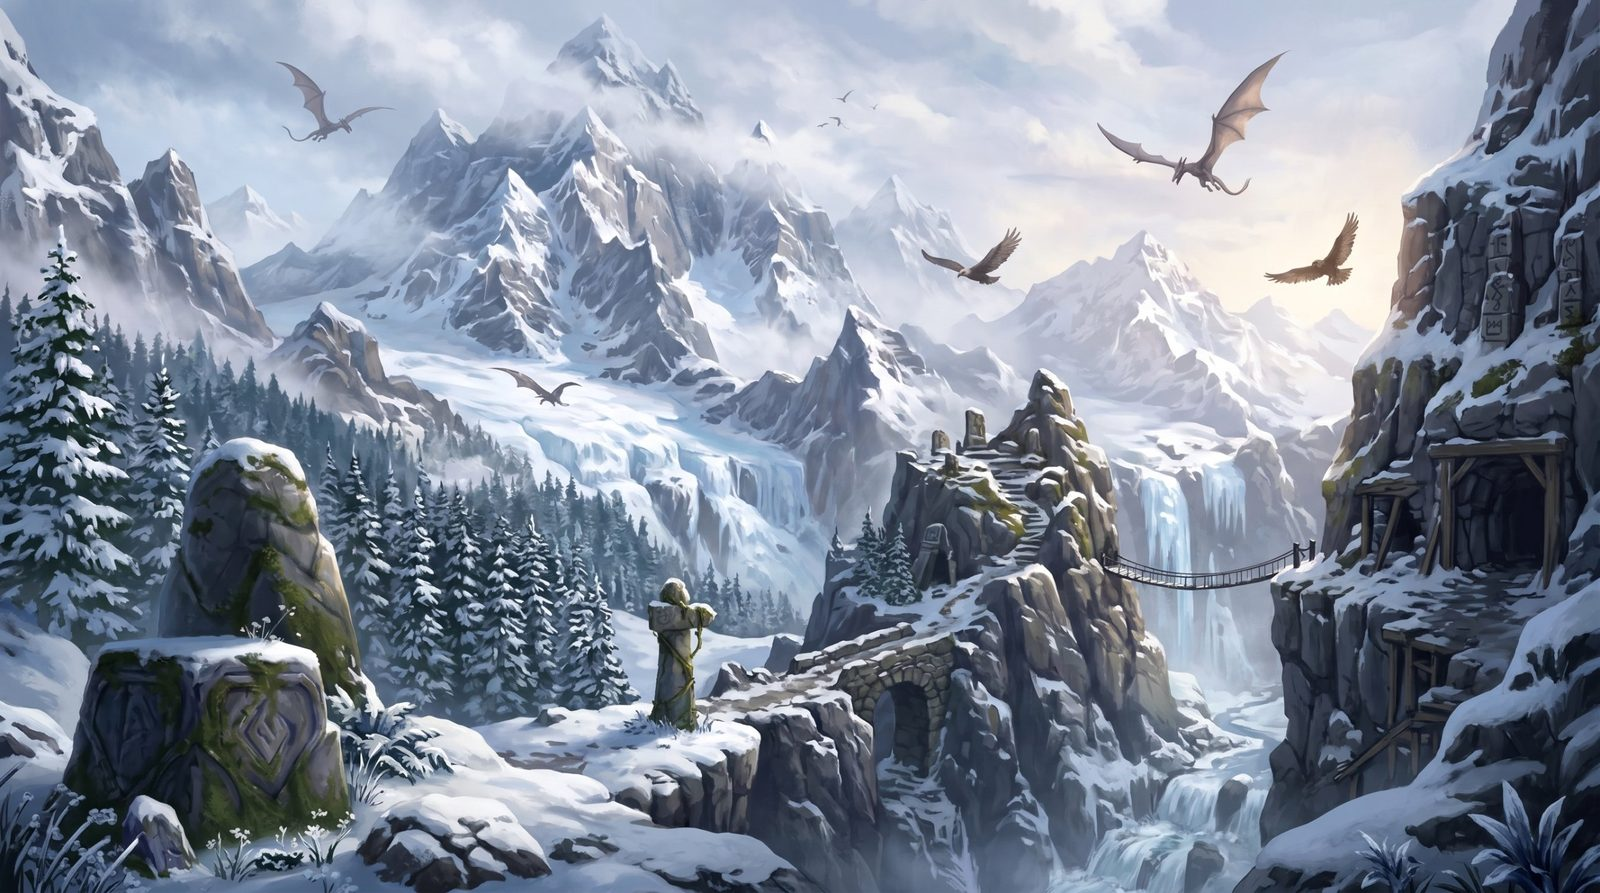
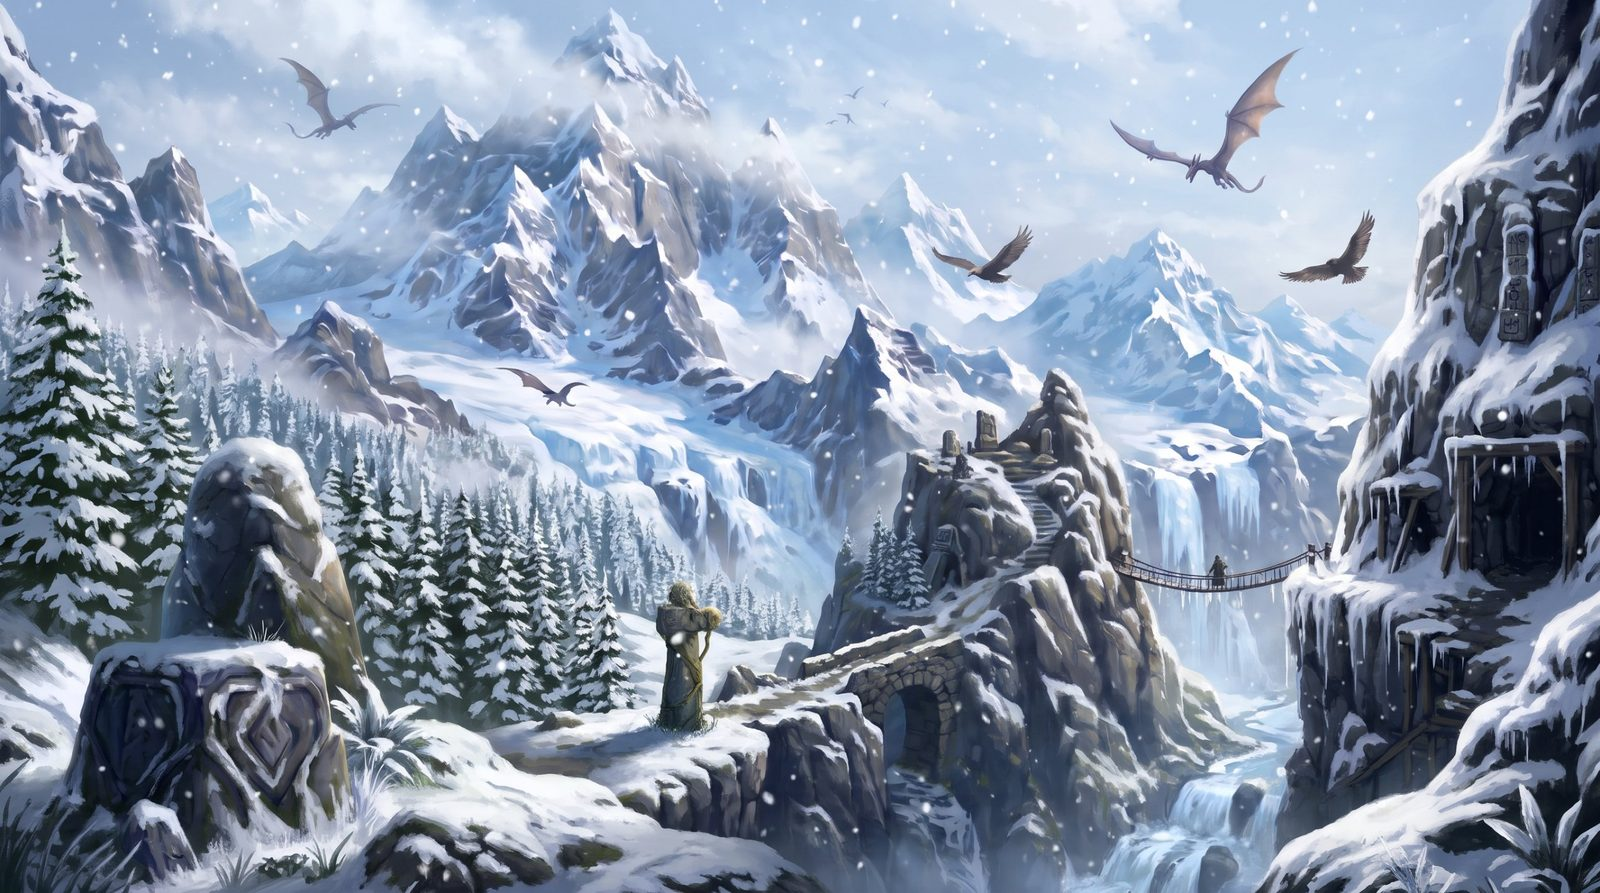
冒険6面（竜の山脈）の朝・昼・夕方・夜の画像を追加
Claude-Session: https://claude.ai/code/session_01EftAGzqa5a4WGGvn4eGGrQ

diff --git a/index.html b/index.html
@@ -2187,7 +2187,7 @@
         <button onclick="openCouponModal()" title="秘密の鍵"
             style="background:rgba(5,20,10,0.55);border:1px solid rgba(60,140,80,0.35);border-radius:20px;padding:3px 9px;font-size:11px;cursor:pointer;color:rgba(140,200,150,0.65);display:flex;align-items:center;gap:3px;transition:all 0.3s;font-family:'Noto Serif JP',serif;letter-spacing:0.03em;opacity:0.7;flex-shrink:0;">🗝</button>
         <button id="accountChip" onclick="Cloud.chipClick()" title="アカウント"></button>
-        <div style="font-size:9px;letter-spacing:0.12em;color:rgba(200,170,80,0.45);font-family:'Noto Serif JP',serif;text-align:center;flex:1;padding:0 6px;">Designed by Takahiro Iimura<br><span id="appVersion" style="opacity:.8;">ver. 2026.11.02-1600</span></div>
+        <div style="font-size:9px;letter-spacing:0.12em;color:rgba(200,170,80,0.45);font-family:'Noto Serif JP',serif;text-align:center;flex:1;padding:0 6px;">Designed by Takahiro Iimura<br><span id="appVersion" style="opacity:.8;">ver. 2026.11.02-1605</span></div>
         <button id="bgmBtn" onclick="toggleBGM()" title="BGM ON/OFF"
             style="background:rgba(30,20,5,0.7);border:1.5px solid rgba(220,170,50,0.7);border-radius:20px;padding:3px 10px;font-size:12px;cursor:pointer;color:rgba(220,170,50,0.85);display:flex;align-items:center;gap:4px;transition:all 0.3s;font-family:'Noto Serif JP',serif;letter-spacing:0.05em;flex-shrink:0;">🔇 BGM</button>
     </div>
@@ -8246,7 +8246,7 @@ const Cloud = (function () {
         { key: 'cave',     imgs: ['morning', 'day', 'evening', 'night'], tod: .35, name: '霧の洞窟',     icon: '🦇', goal: '💎', tint: '#8fa0ff', enc: ['🦇 コウモリの群れが道をふさいだ', '🕯 壁に光る文字が浮かび上がった', '🗝 錆びた扉に謎の言葉が…', '💧 地底湖に言葉が映っている'] },
         { key: 'hill',     imgs: ['morning', 'day', 'evening', 'night'], tod: .3,  name: '星降る丘',     icon: '⛰', goal: '🔭', tint: '#c9a6ff', enc: ['⭐ 流れ星が言葉を落としていった', '🐑 羊飼いの少年が道をたずねた', '🌙 月の精がささやいた', '🪁 風に乗って手紙が飛んできた'] },
         { key: 'ruins',    imgs: ['morning', 'day', 'evening', 'night'], tod: 1,   name: '古代の遺跡',   icon: '🏛', goal: '📜', tint: '#e8b850', enc: ['🗿 石像が口を開いた', '📜 古文書の一節が読めそうだ', '🐍 封印の蛇が合言葉を求めている', '🏺 壺の底に文字が刻まれている'] },
-        { key: 'mountain', imgs: ['day'], tod: 1,   name: '竜の山脈',     icon: '🐉', goal: '🥚', tint: '#ff8a60', enc: ['🔥 竜の吐息で道が熱い…', '🦅 大鷲が試練を与えた', '⛏ 鉱夫が岩に刻んだ言葉を見せた', '🌋 火山の精霊が問いかけた'] },
+        { key: 'mountain', imgs: ['morning', 'day', 'evening', 'night'], tod: 1,   name: '竜の山脈',     icon: '🐉', goal: '🥚', tint: '#ff8a60', enc: ['🔥 竜の吐息で道が熱い…', '🦅 大鷲が試練を与えた', '⛏ 鉱夫が岩に刻んだ言葉を見せた', '🌋 火山の精霊が問いかけた'] },
         { key: 'castle',   imgs: ['day'], tod: 1,   name: '天空の城',     icon: '🏰', goal: '👑', tint: '#80e0ff', enc: ['☁ 雲の門番が合言葉を問う', '👑 王の書庫で不思議な本を見つけた', '🕊 白い鳩が手紙を運んできた', '🔔 塔の鐘に言葉が刻まれている'] },
     ];
     // 保存されている地域（「はじまりの草原」を先頭に追加したので、以前の番号は1つずらす）
